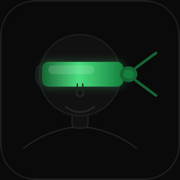
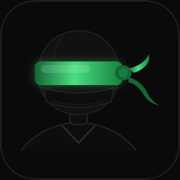
design: redraw figure as a blinded ninja
Hood with cloth fold, full face mask, gi collar — no more bare head with
ears and a smile. Green blindfold band kept as the brand mark, now with
asymmetric wind-blown tails. Icons regenerated from the new figure; sw v11.

diff --git a/public/sw.js b/public/sw.js
@@ -1,4 +1,4 @@
-const CACHE_NAME = 'blind-edge-v10';
+const CACHE_NAME = 'blind-edge-v11';
 const APP_SHELL = [
   '/',
   '/index.html',
